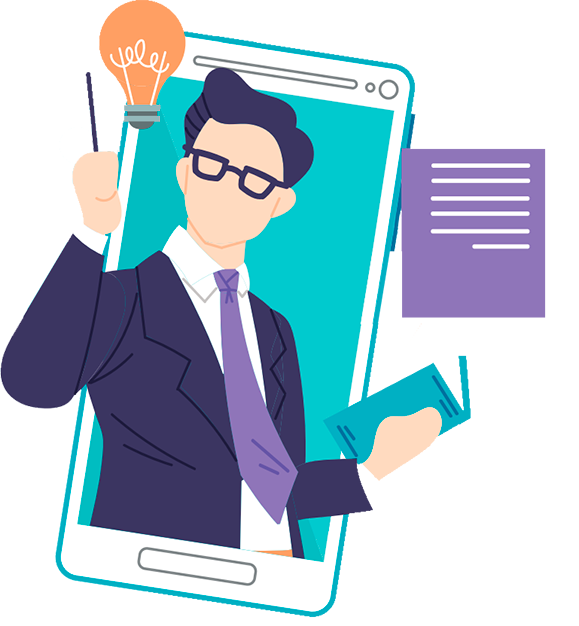
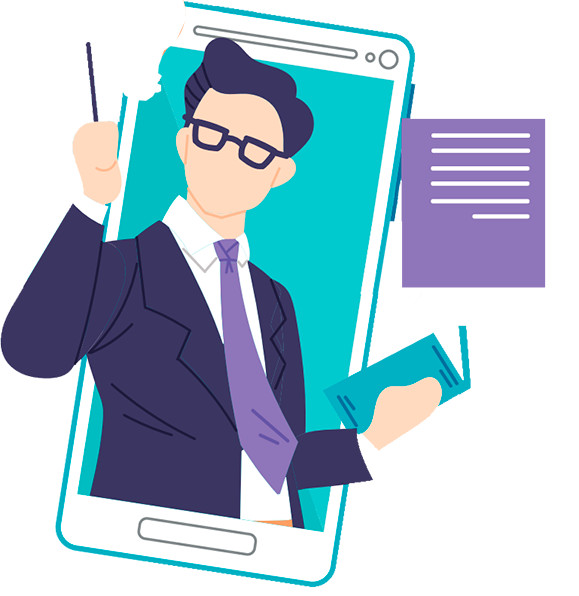
feat add a light & button

Changed region(s): [[0.0, 0.0, 0.9637, 0.9966], [0.715, 0.6946, 0.7461, 0.7248]]

diff --git a/index.html b/index.html
@@ -42,19 +42,23 @@
                 <!-- /.header__content-logo -->
                 <nav class="nav menu__nav wow fadeInDown" data-wow-delay="0.5s">
                     <a href="#" class="nav__item">
-                        жоба туралы
+                        <!-- жоба туралы -->
+                        <img src="img/button/01.png" alt="жоба туралы">
                     </a>
                     <!-- /.nav__item -->
                     <a href="#" class="nav__item">
-                        ата-аналарға
+                        <!-- ата-анаға -->
+                        <img src="img/button/03.png" alt="ата-анаға">
                     </a>
                     <!-- /.nav__item -->
                     <a href="#" class="nav__item">
-                        оқушыға
+                        <!-- оқушыға -->
+                        <img src="img/button/02.png" alt="оқушыға">
                     </a>
                     <!-- /.nav__item -->
                     <a href="#" class="nav__item">
-                        байланыс
+                        <!-- байланыс -->
+                        <img src="img/button/04.png" alt="байланыс">
                     </a>
                     <!-- /.nav__item -->
                 </nav>
@@ -107,7 +111,7 @@
                     <!-- /.hero__content-offer -->
                     <div class="hero__content-polygon wow fadeInRight" data-wow-delay="0.5s">
                         <!--div class="parallax background-tree" id="background-tree"></div -->
-                        <img src="img/lamp.gif" alt="" class="hero__content-light" auto-paly="play">
+                        <img src="img/lamp.gif" alt="" class="hero__content-light">
                         <img src="img/images-hero.png" alt="">
                         <div class="shadow-point"></div>
                         <img src="img/01-h.png" alt="" class="hero__content-cogwheel wow zoomIn
@@ -115,7 +119,7 @@
                         <img src="img/02-h.png" alt="" class="hero__content-cogwheel-2">
                         <div class="hero__message wow fadeInUpBig
                         " data-wow-delay="1s">
-                            <img src="img/message.png" alt="" class="hero__content-message">
+                            <img src="img/message.png" alt="" class="hero__content-message bounce-2">
                         </div>
                     </div>
                     <!-- /.hero__content-polygon -->

diff --git a/css/main.css b/css/main.css
@@ -71,13 +71,13 @@ h1, h2, h3, h4, h5, h6, p, span {
 .menu__nav {
     position: relative;
     margin-right: auto;
-    margin-left: 110px;
+    margin-left: 25px;
     margin-right: 20px;
 }
 
 .nav__item {
     position: relative;
-    margin-right: 50px;
+    margin-right: 30px;
     font-family: 'Calibri', sans-serif;
     font-size: 20px;
     font-weight: bold;
@@ -89,7 +89,7 @@ h1, h2, h3, h4, h5, h6, p, span {
     margin-right: 0px;
 }
 
-.nav__item::after {
+/*.nav__item::after {
     display: block;
 	position: absolute;
 	left: 0; 
@@ -105,7 +105,7 @@ h1, h2, h3, h4, h5, h6, p, span {
 .nav__item:focus:after {
 	width: 100%;
 }
-
+*/
 .phone__images {
     margin-right: 20px;
 }
@@ -157,8 +157,24 @@ h1, h2, h3, h4, h5, h6, p, span {
 
 .hero__message {
     position: absolute;
-    bottom: 40%;
+    bottom: 45%;
     right: 20%;
+}
+
+.hero__content-message {
+    animation-duration: 2s;
+    animation-iteration-count: infinite;
+}
+
+.bounce-2 {
+    animation-name: bounce-2;
+    animation-timing-function: ease;
+}
+
+@keyframes bounce-2 {
+    0%   { transform: translateY(0); }
+    50%  { transform: translateY(20px); }
+    100% { transform: translateY(0); }
 }
 
 .hero__content-cogwheel {
@@ -170,7 +186,7 @@ h1, h2, h3, h4, h5, h6, p, span {
 
 .hero__content-cogwheel-2 {
     animation-name: rotation-2;
-    animation-duration: 4s;
+    animation-duration: 3.5s;
     animation-iteration-count: infinite;
     animation-timing-function: linear;
 }
@@ -199,7 +215,7 @@ h1, h2, h3, h4, h5, h6, p, span {
     left: 20%;
     width: 50px;
     height: 50px;
-    background-color: #ff9f63;
+    background-color: transparent;
     border-radius: 50%;
     animation: shadow 1s infinite alternate;
     z-index: -1;
@@ -216,8 +232,8 @@ h1, h2, h3, h4, h5, h6, p, span {
 
 .hero__content-light {
     position: absolute;
-    top: -60px;
-    left: -105px;
+    top: -88px;
+    left: -103px;
 }
 
 .hero__content-logo {
